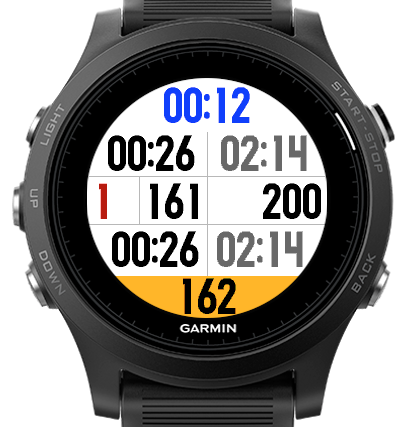
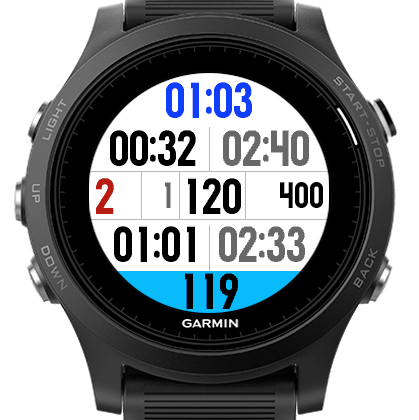
Version 1.0.0

diff --git a/README.md b/README.md
@@ -1,6 +1,6 @@
 # TrackWorkout
 
-Data field for Garmin Forerunner watches designed for interval track workouts.
+Data field for Garmin Forerunner 935/645 and Fenix 5 watches designed for interval track workouts.
 
 When I do interval workouts on the track, I usually want the lap distance to be rounded to 200 or 400 meters. It's common that GPS doesn't work well on short tracks (nevermind the indoor tracks!),
 so when you press the Lap button after a lap it can be counted as 370 or 420 meters. So you can't tell the pace. Also I'm used to forget how many laps I've done when the interval is longer than 5-6 laps.
@@ -15,6 +15,7 @@ Displays:
 - Last lap time
 - Last lap pace
 - Number of laps done in the current interval (red - workout interval, green - rest)
+- Current workout interval #
 - Last lap HR (HR at the end of the lap / avg HR / max HR)
 - Current interval distance rounded to the 200x meters
 - Current interval time
